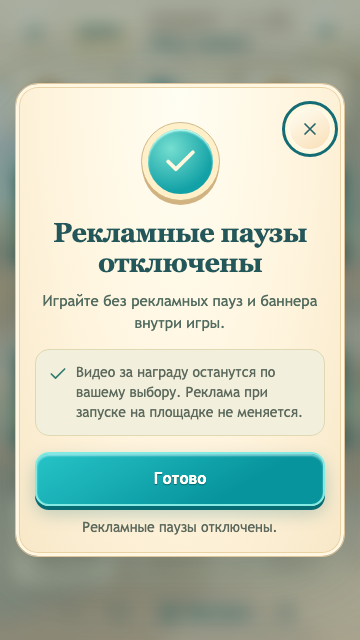
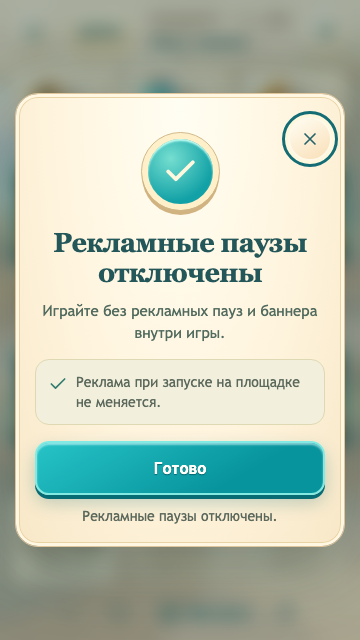
fix: remove unimplemented rewarded-ad promise

diff --git a/src/no-ads-ui.ts b/src/no-ads-ui.ts
@@ -29,7 +29,7 @@ export function noAdsHTML(snapshot: NoAdsSnapshot, restoring = false, message = 
     <div class="result-badge no-ads-badge" aria-hidden="true">${icon(snapshot.owned ? 'check' : 'shell')}</div>
     <h2 id="no-ads-title">${title}</h2>
     <p class="no-ads-description">${snapshot.owned ? 'Играйте без рекламных пауз и баннера внутри игры.' : 'Одна покупка убирает рекламные паузы и баннер внутри игры.'}</p>
-    <div class="no-ads-details"><span aria-hidden="true">${icon('check')}</span><p>Видео за награду останутся по вашему выбору. Реклама при запуске на площадке не меняется.</p></div>
+    <div class="no-ads-details"><span aria-hidden="true">${icon('check')}</span><p>Реклама при запуске на площадке не меняется.</p></div>
     <div class="no-ads-actions">${action}${restore}</div>
     <p class="no-ads-message" role="status" aria-live="polite" aria-atomic="true">${escape(message || progress)}</p>
   </section>`;

diff --git a/tests/ui/no-ads.spec.ts b/tests/ui/no-ads.spec.ts
@@ -85,7 +85,7 @@ test('local preview has one inactive purchase, no invented price or SDK request,
   await expect(page.locator('[data-action="no-ads-restore"]')).toBeDisabled();
   await expect(page.locator('.no-ads-price')).toHaveCount(0);
   await expect(page.locator('.modal-no-ads')).toContainText('Покупка пока недоступна');
-  await expect(page.locator('.modal-no-ads')).toContainText('Видео за награду');
+  await expect(page.locator('.no-ads-details')).toHaveText('Реклама при запуске на площадке не меняется.');
   const geometry = await page.locator('.modal-no-ads').evaluate(element => {
     const r = element.getBoundingClientRect();
     return { left: r.left, right: r.right, width: element.clientWidth, scroll: element.scrollWidth, document: document.documentElement.scrollWidth, viewport: innerWidth };

diff --git a/docs/HANDOFF.md b/docs/HANDOFF.md
@@ -1,6 +1,6 @@
 # Передача проекта другому агенту
 
-**Последняя итерация, 12 октября:** подготовлена единственная постоянная покупка `disable_ads` — без рекламных пауз внутри игры. Настройки показывают цену из SDK, покупку и восстановление; локально это неактивный предпросмотр. Пользователь подтвердил, что товар в консоли ещё не создан. SDK загружается только в целевой `build:yandex` или при уже предоставленном `YaGames`; новые автоматические рекламные показы не добавлены. Права не находятся в Progress и не меняют валюты/Attempt. Премиум, платные коллекции и косметические ограничения отменены. [Контракт и активация](NO_ADS.md).
+**Последняя итерация, 12 октября:** подготовлена единственная постоянная покупка `disable_ads` — без рекламных пауз внутри игры. Настройки показывают цену из SDK, покупку и восстановление; локально это неактивный предпросмотр. Упоминание видео за награду убрано: ни наградные ролики, ни x2 сейчас не реализованы. Пользователь подтвердил, что товар в консоли ещё не создан. SDK загружается только в целевой `build:yandex` или при уже предоставленном `YaGames`; новые автоматические рекламные показы не добавлены. Права не находятся в Progress и не меняют валюты/Attempt. Премиум, платные коллекции и косметические ограничения отменены. [Контракт и активация](NO_ADS.md).
 
 **Визуальные исправления Astra:** `restaurant-rooms-6` — целый край стола с доской, прямая боковина плиты и более глубокая правая тумба кухни; `terrace-rooms-4` — стойка 17 внутри настила, передний стул в правильном порядке слоёв, целые нижние опоры и короткие контакты. ID/цены/доступ/сохранения не менялись, очистка localStorage не нужна. Проверка: Дебаг → Ресторан → работы 15/16/22/23/26, Терраса → 16/17/18/26. [Текущий QA](QA.md#покупка-без-рекламных-пауз-и-мебель--12-октября).
 

diff --git a/docs/NO_ADS.md b/docs/NO_ADS.md
@@ -21,7 +21,7 @@
 3. Настроить баннер для управления через SDK, если он используется. Все будущие рекламные паузы вызывать только через сервис прав; принудительные видео и внутренний баннер должны исчезать для владельца.
 4. На площадке проверить настоящую тестовую покупку, отмену, повторные ответы, reload, восстановление на другом устройстве/аккаунте, ошибки и паузу/возобновление звука и ввода. Отдельно подготовить облачное сохранение Progress по RELEASE; платежное право уже читается из платформенного аккаунта.
 
-Обещание пользователю относится к рекламе **внутри игры**. Добровольное видео за награду и рекламный показ самой площадки при запуске исключены явно в окне. Это соответствует [требованию Яндекс Игр 1.13](https://yandex.ru/dev/games/doc/ru/requirements/1/13). Контракты проверены по официальным [покупкам](https://yandex.ru/dev/games/doc/ru/sdk/sdk-purchases), [рекламе](https://yandex.ru/dev/games/doc/ru/sdk/sdk-adv), [загрузке SDK](https://yandex.ru/dev/games/doc/ru/sdk/sdk-about) и [событиям игры](https://yandex.ru/dev/games/doc/ru/sdk/sdk-game-events); фактическая проверка на площадке остаётся обязательной.
+Обещание пользователю относится к рекламе **внутри игры**. В окне явно исключён рекламный показ самой площадки при запуске. Видео за награду и x2 в игре не реализованы и в предложении не упоминаются. Граница покупки соответствует [требованию Яндекс Игр 1.13](https://yandex.ru/dev/games/doc/ru/requirements/1/13). Контракты проверены по официальным [покупкам](https://yandex.ru/dev/games/doc/ru/sdk/sdk-purchases), [рекламе](https://yandex.ru/dev/games/doc/ru/sdk/sdk-adv), [загрузке SDK](https://yandex.ru/dev/games/doc/ru/sdk/sdk-about) и [событиям игры](https://yandex.ru/dev/games/doc/ru/sdk/sdk-game-events); фактическая проверка на площадке остаётся обязательной.
 
 ## Проверка
 

diff --git a/docs/RELEASE.md b/docs/RELEASE.md
@@ -46,7 +46,7 @@
 
 Владелец создаёт товар в консоли; сейчас он ещё не создан. Целевой build загружает `/sdk.js`, цена берётся из каталога, права — из платформенных `getPurchases()`/подтверждения оплаты. Постоянная покупка не расходуется и не хранится флагом в игровом save. До запуска проверить на площадке отмену, потерянный ответ, перезагрузку, восстановление на другом устройстве, паузу/возобновление и отключение всех принудительных внутренних показов/баннера. SDK-стенд не заменяет эту проверку.
 
-Рекламные места ещё не включены. Все будущие паузы используют общий шлюз прав; неизвестные права или активная оплата блокируют показ. Платформенный стартовый показ и добровольное видео за награду явно исключены из покупки. Продажу включать после работающих рекламных мест, необходимых облачных сохранений и проверки RELEASE.
+Рекламные места ещё не включены. Все будущие паузы используют общий шлюз прав; неизвестные права или активная оплата блокируют показ. Платформенный стартовый показ явно исключён из покупки. Видео за награду и x2 не реализованы и не обещаются в окне покупки. Продажу включать после работающих рекламных мест, необходимых облачных сохранений и проверки RELEASE.
 
 Кампания проходится без покупки, обязательного просмотра рекламы и энергии. Звезда/ремкомплект/orderId не множатся:80/80 остаётся 80 разных заказов. Гипотеза «Ещё +60 монет» требует содержательной экономики; её спрос и доход не доказаны. Награда возможна только после подтверждённого просмотра, закрытие/ошибка ничего не начисляют и восстанавливают управление.
 

diff --git a/docs/QA.md b/docs/QA.md
@@ -2,6 +2,12 @@
 
 7–12 октября 2026 года, macOS 26.6.2 arm64, Node.js 22.14.0 / npm 10.9.2, Playwright 1.63 / Chromium 153.0.8010.12. Production проверяется на отдельном origin `127.0.0.1:4190` в изолированных BrowserContext. Пользовательское сохранение не изменяется.
 
+## Уточнение текста покупки — 12 октября
+
+Убрано ошибочное обещание «Видео за награду останутся по вашему выбору»: наградные ролики и x2 в игре не реализованы. В окне покупки осталось только исключение рекламы площадки при запуске. Логика прав и игровой прогресс не менялись. Обновлены контракт, RELEASE и шесть снимков окна.
+
+`npm run build` — **79 425 690 байт**,840 решений воспроизведены; `tests/ui/no-ads.spec.ts` — **12/12 PASS**,10,1с,desktop1280×900 и360×640. Проверены подпись, геометрия/фокус, неактивный локальный режим, подтверждение/отмена/восстановление на SDK-стенде. Логи: `artifacts/no-ads-copy-{build,ui}.log`. Границы прежние: Chromium, без реальной оплаты и платформенного аккаунта.
+
 ## Покупка без рекламных пауз и мебель — 12 октября
 
 Подготовлена одна постоянная покупка `disable_ads`, через настройки. Каталог и права приходят из SDK, повторный платёж блокируется, покупка и восстановление не записываются в Progress. Товар ещё не создан в консоли; настоящий платёж не выполнялся. Новые рекламные места не запущены. [Контракт и активация](NO_ADS.md).
